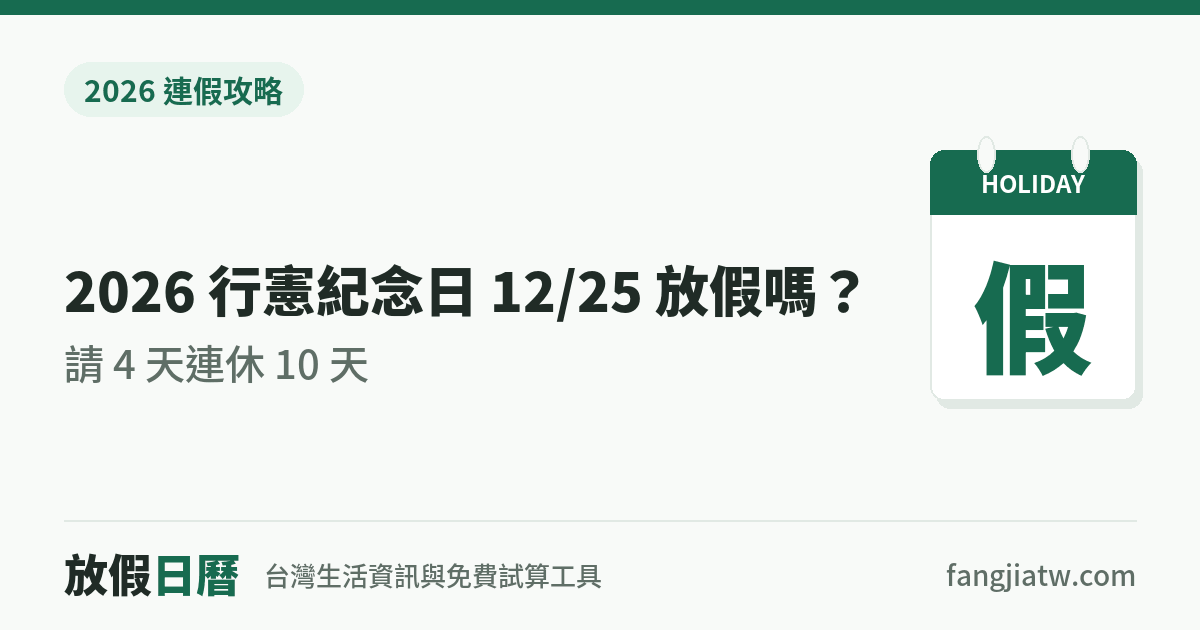
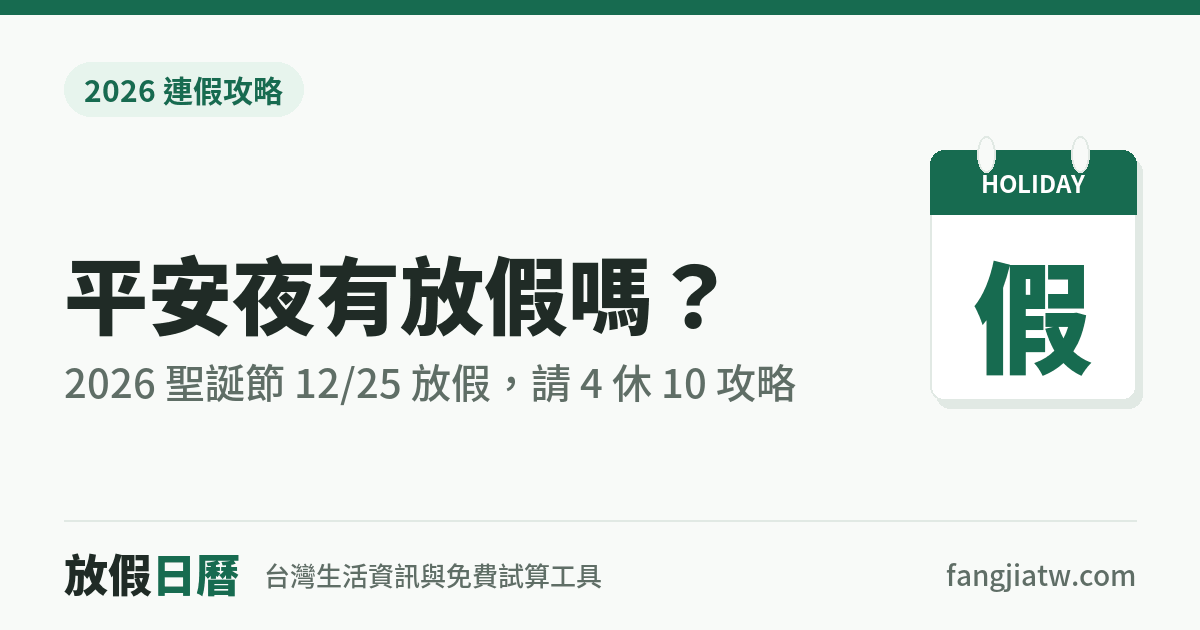
Xingxian 2026 page: retitle for 平安夜 queries, answer-first 12/24 workday, new FAQ, refreshed OG card

Changed region(s): [[0.0308, 0.3921, 0.74, 0.6333]]

diff --git a/2026/xingxian/index.html b/2026/xingxian/index.html
@@ -4,15 +4,15 @@
 <meta charset="utf-8">
 <meta name="google-adsense-account" content="ca-pub-1876699539464325">
 <meta name="viewport" content="width=device-width,initial-scale=1,viewport-fit=cover">
-<title>2026 行憲紀念日 12/25 放假嗎？請 4 天連休 10 天攻略｜放假日曆</title>
-<meta name="description" content="2026 年 12 月 25 日行憲紀念日有放假！剛好是星期五，12/25–12/27 連休 3 天，不用補班。請 12/28–12/31 四天特休，就能接上元旦連休 10 天。">
+<title>平安夜有放假嗎？2026 聖誕節 12/25 放假，請 4 休 10 攻略｜放假日曆</title>
+<meta name="description" content="2026 平安夜 12/24（四）要上班；聖誕節 12/25（五）是行憲紀念日，有放假、不用補班，12/25–12/27 連休 3 天。請 12/24 一天可連休 4 天，請 12/28–12/31 四天接上元旦連休 10 天。">
 <link rel="canonical" href="https://fangjiatw.com/2026/xingxian/">
 <link rel="icon" href="/favicon.ico" sizes="48x48">
 <link rel="icon" href="/favicon.svg" type="image/svg+xml">
 <link rel="apple-touch-icon" href="/apple-touch-icon.png">
 <meta property="og:type" content="article">
-<meta property="og:title" content="2026 行憲紀念日 12/25 放假嗎？請 4 天連休 10 天">
-<meta property="og:description" content="12/25（五）放假，連休 3 天。聖誕節接跨年，請 4 天特休連休 10 天。">
+<meta property="og:title" content="平安夜有放假嗎？2026 聖誕節 12/25 放假，請 4 休 10 攻略">
+<meta property="og:description" content="平安夜 12/24（四）要上班，聖誕節 12/25（五）行憲紀念日放假，連休 3 天。請 4 天特休，聖誕接跨年連休 10 天。">
 <meta property="og:url" content="https://fangjiatw.com/2026/xingxian/">
 <meta property="og:image" content="https://fangjiatw.com/assets/og/2026-xingxian.png">
 <meta property="og:image:width" content="1200">
@@ -27,9 +27,9 @@
   "@graph":[
     {
       "@type":"Article",
-      "headline":"2026 行憲紀念日 12/25 放假嗎？請 4 天連休 10 天攻略",
+      "headline":"平安夜有放假嗎？2026 聖誕節 12/25 放假，請 4 休 10 攻略",
       "datePublished":"2026-11-01",
-      "dateModified":"2026-11-01",
+      "dateModified":"2026-11-21",
       "inLanguage":"zh-Hant-TW",
       "mainEntityOfPage":"https://fangjiatw.com/2026/xingxian/",
       "publisher":{"@type":"Organization","name":"放假日曆","url":"https://fangjiatw.com/"}
@@ -44,6 +44,7 @@
     {
       "@type":"FAQPage",
       "mainEntity":[
+        {"@type":"Question","name":"2026 平安夜 12/24 有放假嗎？","acceptedAnswer":{"@type":"Answer","text":"沒有。平安夜不是國定假日，2026 年 12/24 是星期四，照常上班。想過平安夜可以請 12/24 一天特休，12/24–12/27 連休 4 天。"}},
         {"@type":"Question","name":"2026 年 12 月 25 日有放假嗎？","acceptedAnswer":{"@type":"Answer","text":"有。12 月 25 日是行憲紀念日，2025 年修法後恢復為國定假日。2026 年剛好是星期五，12/25–12/27 連休 3 天。"}},
         {"@type":"Question","name":"2026 年行憲紀念日需要補班嗎？","acceptedAnswer":{"@type":"Answer","text":"不用。12/25 本身就是星期五，直接接上週末，不需要調整上班日，也沒有補班。"}},
         {"@type":"Question","name":"2026 年聖誕節到元旦怎麼請假最划算？","acceptedAnswer":{"@type":"Answer","text":"請 12/28（一）到 12/31（四）共 4 天特休，就能從 12/25 一路休到 2027 年 1/3（日），連休 10 天。"}},
@@ -73,12 +74,12 @@
 <main class="article">
   <div>
     <div class="crumb"><a href="/">放假日曆</a> › 2026 行憲紀念日</div>
-    <h1>2026 行憲紀念日 12/25 放假嗎？<br>請 4 天連休 10 天攻略</h1>
-    <div class="meta">更新日期：2026 年 11 月 1 日 · 資料來源：人事行政總處</div>
+    <h1>平安夜有放假嗎？<br>2026 聖誕節 <span style="white-space:nowrap">12/25 放假，</span><span style="white-space:nowrap">請 4 休 10</span></h1>
+    <div class="meta">更新日期：2026 年 11 月 21 日 · 資料來源：人事行政總處</div>
   </div>
 
   <div class="answer">
-    有放假！2026 年 <b>12 月 25 日（五）行憲紀念日</b>是國定假日，剛好接上週末，<b>12/25～12/27 連休 3 天</b>，而且<b>不用補班</b>。
+    <b>平安夜 12/24（四）沒有放假</b>，照常上班。隔天 <b>12/25（五）聖誕節</b>剛好是行憲紀念日，屬於國定假日，接上週末 <b>12/25～12/27 連休 3 天</b>，而且<b>不用補班</b>。
   </div>
 
   <p>今年的聖誕節剛好就是連假第一天，隔一週又是元旦連假。中間只隔著 12/28～12/31 四個上班日，請 4 天特休就能把聖誕節和跨年串在一起，連休 10 天！</p>
@@ -155,6 +156,7 @@
 
   <section>
     <h2>常見問題</h2>
+    <details><summary>2026 平安夜 12/24 有放假嗎？</summary><p>沒有。平安夜不是國定假日，2026 年 12/24 是星期四，照常上班。想過平安夜可以請 12/24 一天特休，12/24–12/27 連休 4 天。</p></details>
     <details><summary>2026 年 12 月 25 日有放假嗎？</summary><p>有。12 月 25 日是行憲紀念日，2025 年修法後恢復為國定假日。2026 年剛好是星期五，12/25–12/27 連休 3 天。</p></details>
     <details><summary>2026 年行憲紀念日需要補班嗎？</summary><p>不用。12/25 本身就是星期五，直接接上週末，不需要調整上班日，也沒有補班。</p></details>
     <details><summary>2026 年聖誕節到元旦怎麼請假最划算？</summary><p>請 12/28（一）到 12/31（四）共 4 天特休，就能從 12/25 一路休到 2027 年 1/3（日），連休 10 天。</p></details>
@@ -164,7 +166,7 @@
 
   <section>
     <h2>開始規劃你的年底假期</h2>
-    <p>離 12/25 不到兩個月，年底的特休記得先跟主管排好！想出國跨年的話，機票、住宿越早訂選擇越多。</p>
+    <p>年底的特休記得先跟主管排好！想出國跨年的話，機票、住宿越早訂選擇越多。</p>
     <p>接下來的 2027 年也有不少連假，可以用本站的<a href="/#planner">請假計算器</a>，搭配 <a href="/#calendar">2027 全年行事曆</a>，提早把明年的特休排好。</p>
   </section>
 
